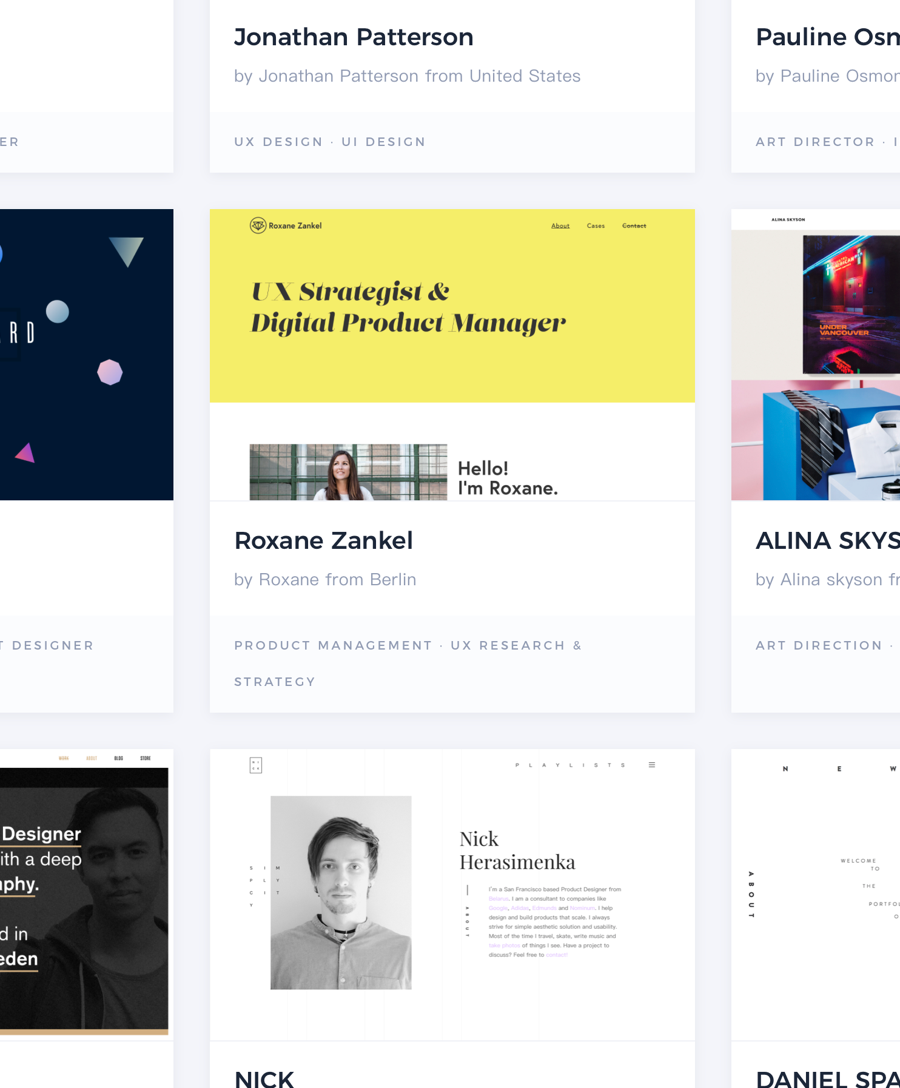
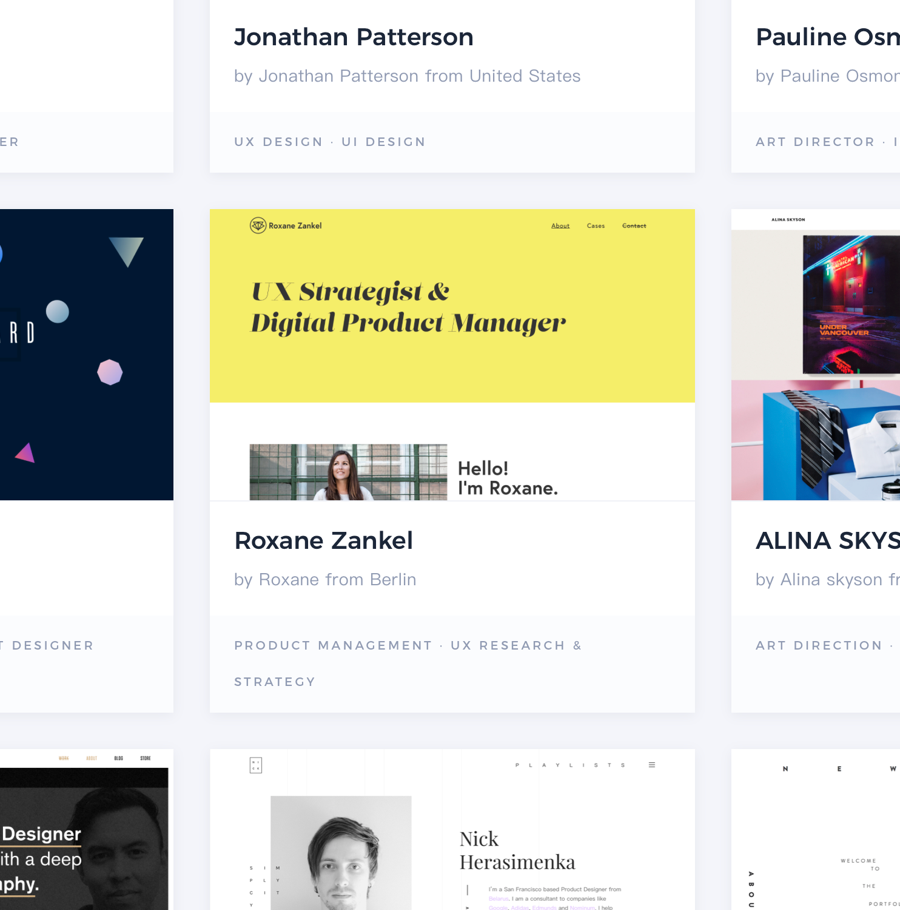
🐛 bug fix

diff --git a/portfolio/index.html b/portfolio/index.html
@@ -72,15 +72,6 @@ description: Do one thing for a lifetime
             </div>
           </div>
         </a>
-        <a href="#" class="portfolio_item">
-          <img src= {{ "/assets/images/portfolio/p-6.png" | prepend: site.baseurl }} alt="" class="item_cover">
-          <div class="item_info">
-            <div class="item_title">Elife-X</div>
-            <div class="item_desc">
-              Web Interfaces · Development · Digital Branding
-            </div>
-          </div>
-        </a>
       </div>
     </div>
     </div>

diff --git a/assets/stylesheets/_libs/main.scss b/assets/stylesheets/_libs/main.scss
@@ -211,6 +211,15 @@ html {
   }
 }
 
+@media only screen and (max-width: 1280px) {
+  .section.story .title {
+    display: none;
+  }
+  .section.essay .content a:last-child {
+    display: none;
+  }
+}
+
 @media only screen and (max-width: 1120px) {
   .section.about,
   .section.essay,
@@ -300,7 +309,9 @@ html {
     margin-left: 30px;
   }
 }
-
+.portfolio_clumn.other {
+  margin-top: 100px;
+}
 .portfolio_item {
   position: relative;
   display: block;

diff --git a/index.html b/index.html
@@ -185,7 +185,7 @@ description: Do one thing for a lifetime
       </div>
       <div class="case_synopsis">
         <div class="case_nav">
-          <span>Pet application</span>
+          <span>Application</span>
         </div>
         <div class="case_desc">
           <p>
